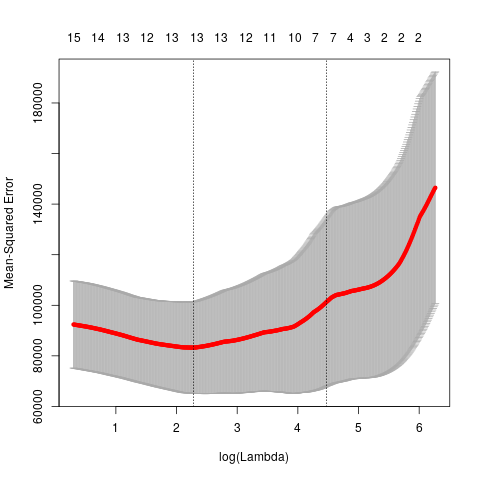
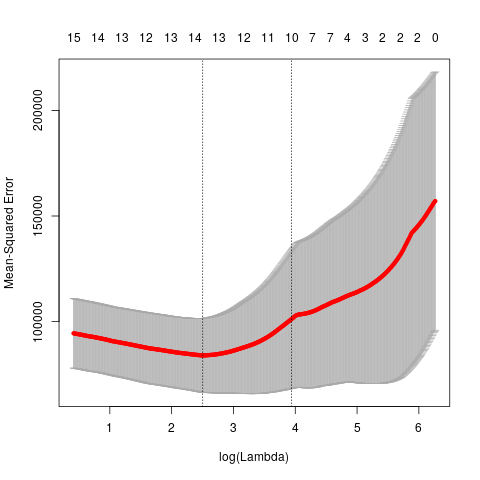
finish hw8

diff --git a/hw8/report.md b/hw8/report.md
@@ -1,13 +1,16 @@
+vim: tw=80:
 # Homework 8 - Variable Selection
 
 ## Question 11.1
-Using the crime data set uscrime.txt from Questions 8.2, 9.1, and 10.1, build a regression model
+Using the crime data set uscrime.txt from Questions 8.2, 9.1, and 10.1, build a 
+regression model
 using:  
   1. Stepwise regression
   2. Lasso
   3. Elastic net  
 
-For Parts 2 and 3, remember to scale the data first – otherwise, the regression coefficients will be on
+For Parts 2 and 3, remember to scale the data first – otherwise, the regression 
+coefficients will be on
 different scales and the constraint won’t have the desired effect.
 For Parts 2 and 3, use the glmnet function in R.
 Notes on R:  
@@ -23,3 +26,182 @@ values of alpha in between].
 
 
 ## Response
+
+We start with loading our libraries, read data and apply some preprocessing.
+```R
+library(glmnet)
+
+crime <- read.table(
+  '../data/uscrime.txt',
+  header = TRUE
+)
+
+# It's good practice to scale and center predictors in regression
+crime[, -ncol(crime)] <- scale(crime[, -ncol(crime)])
+```
+
+Now, we need to get a baseline before we can attempt to make any improvements.
+Otherwise we won't know how much we improved. 
+```R
+# Fit simple model
+fit <- glm(
+  formula = Crime ~ ., 
+  data = crime
+)
+# AIC: 650
+
+print(fit) 
+cat(
+  "\n",
+  "Dev ratio:",
+  "\n",
+  1-fit$deviance/fit$null.deviance,
+  "\n",
+  sep=""
+)
+```
+
+Which gives the following output:
+```sh
+Call:  glm(formula = Crime ~ ., data = crime)
+
+Coefficients:
+(Intercept)            M           So           Ed          Po1          Po2  
+    905.085      110.382       -1.822      210.678      572.995     -305.958  
+         LF          M.F          Pop           NW           U1           U2  
+    -26.826       51.293      -27.906       43.234     -105.056      141.714  
+     Wealth         Ineq         Prob         Time  
+     92.792      281.954     -110.394      -24.655  
+
+Degrees of Freedom: 46 Total (i.e. Null);  31 Residual
+Null Deviance:	    6881000 
+Residual Deviance: 1355000 	AIC: 650
+
+Dev ratio:
+0.8030868
+```
+
+You can see our coeffcients above and our starting Deviance Ratio is starting at
+0.8. As reference, closer to 1 is better. Deviance ratio is one minus 
+the amount of variance divided by the variance from the null model 
+(using just an intercept). Basically, how much of the variance of the null model
+were we able to explain with our model. As we remove features we'll expect this
+to decrease, but if we can remove say half the features while keeping a similar
+dev ratio we have radically simplified our model, avoiding overfitting and
+correlations amongst our features. Often, we're able to increase our accuracy on
+a test set but with only 47 samples, I do not want to split our data set up.
+
+There are three ways to do
+stepwise regression. Forward, Backward and bidirectinal (both). The first two
+are computationally more feasible but add bias into their search. For example,
+the best one variable model may be using just **y = x<sub>1</sub>**, while the best
+two varible model could be **y = x<sub>2</sub> + x<sub>3</sub>**. This is
+important because the second model doesn't include x<sub>1</sub>, but forward
+selection would never find this because once it determined that x<sub>1</sub>
+was in the best single variable model it will never remove it. Backward
+selectoin has a similar search pattern. Stepwise helps to by searching more
+models but is still not perfect. 
+
+```R
+step_stuff <- step(
+  fit, 
+  direction = "both"  
+)
+
+cat("\n", "Step dev ratio", "\n")
+slim_fit <- glm(
+  Crime ~ M + Ed + Po1 + M.F + U1 + U2 + Ineq + Prob,
+  data = crime
+)
+cat(
+  "\n",
+  "Dev ratio:",
+  "\n",
+  1-slim_fit$deviance/slim_fit$null.deviance,
+  "\n",
+  sep=""
+)
+```
+
+which gives the following output:
+
+```sh
+Step:  AIC=639.32
+Crime ~ M + Ed + Po1 + M.F + U1 + U2 + Ineq + Prob
+Dev ratio:
+0.7888268
+```
+As you can see our deviance ratio slightly decreased but we were able to
+decrease our AIC as well from 650 to 639. This is great, we were able to obtain
+a slightly better model with only half the features. We may be able to attribute
+the better AIC to the fact that we have similar error and less features as AIC
+penalizes for more features.
+
+When using Lasso and the Elastic net if your goal is to minimize error you can
+use cross validation and pick the lambda associated with the lowest error
+however you define it. In our case I used MSE error. However, because that value
+is not guarenteed to be the true best model, and I find a more sparse model more
+intersting I use lambda.1se which is the lambda 1 standard error away from the
+minimum. Thus,  I'll have less variables in my models.
+
+For the lasso, I was able to maintain a dev ratio of 0.7662658 while sparsing
+out five features and shrinking the rest. These are not as great as stepwise in
+this case as we are not as sparse or explain as much variance. However, we could
+take these variables from the Lasso and now run glm or a ridge regression on
+them and we could expect a higher performance result. Often, we can use lasso to
+select variables and then use ridge or the Elastic Net to improve performance.
+We can see how the error results for the muliple lambdas it used while
+attempting to comput the argmin as well as the value of each coefficient for
+each lambda. Notice as lambda grows larger and larger all coefficients go to
+zero since we are trying to solve a minimization problem.
+
+![lasso coefficients](./lasso_coef_results.png)
+![lasso error](./lasso_results.png)
+
+We see similar results for the error on our Elastic net.
+![Elastic Net Error](./net_results.png)
+
+Unfortunetly I didn't set my seed the first few times I ran my code so my code
+out put may not match up exactly with my charts if you run it. 
+
+Our Elastic net did not sparse out anymore or less variables but did shrink the
+values of each coefficient that we had more. This is an expected result from
+adding a L2 error into our minimization.
+
+```sh
+(Intercept) 905.085106
+M            42.638084
+So            4.927139
+Ed           17.176815
+Po1         172.319414
+Po2          91.859692
+LF            .       
+M.F          55.651000
+Pop           .       
+NW           17.346096
+U1            .       
+U2            3.350266
+Wealth        .       
+Ineq         76.116104
+Prob        -61.279744
+Time          .       
+
+Elastic Net Dev ratio:
+0.652829
+```
+
+Unfortunetly, our Dev ratio is starting to get pretty low compared to 0.80. We
+shouldn't fret to much since this is on the training data and often vary wildly
+from test sets.  Provided I was a better student and realized we had homework
+the same week as our midterm quiz I could have spent more time on this and
+probably gone back through this and probably re ran everything with a train and
+test sets. Alas, one will never know. 
+
+
+## Helpful Links
+
+  1. Chapter 6 of
+  [Introduction to Statistical Learning (ISL)](https://www-bcf.usc.edu/~gareth/ISL/ISLR%20First%20Printing.pdf)
+  2. [Glmnet Vignette](http://web.stanford.edu/~hastie/glmnet/glmnet_alpha.html)
+  3. Examples from 
+  [NCSU](https://www4.stat.ncsu.edu/~post/josh/LASSO_Ridge_Elastic_Net_-_Examples.html)
